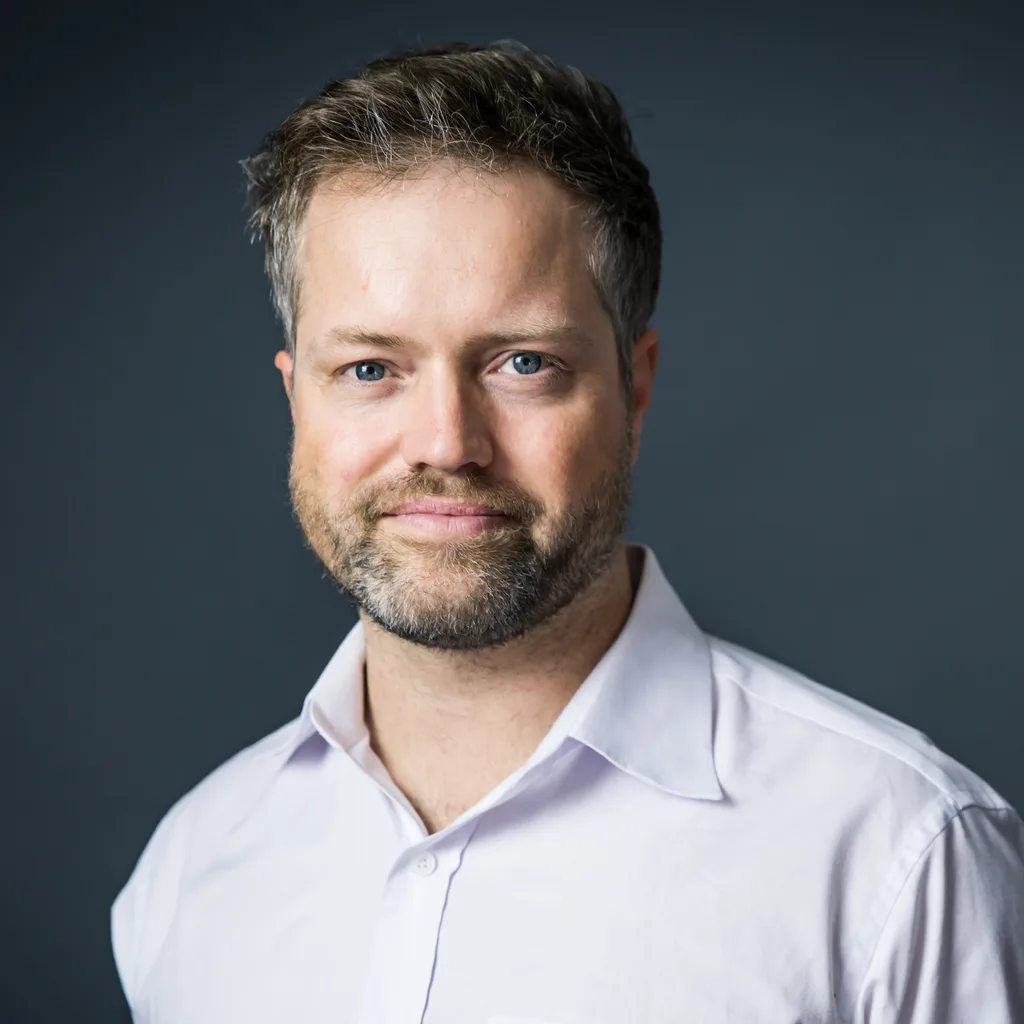
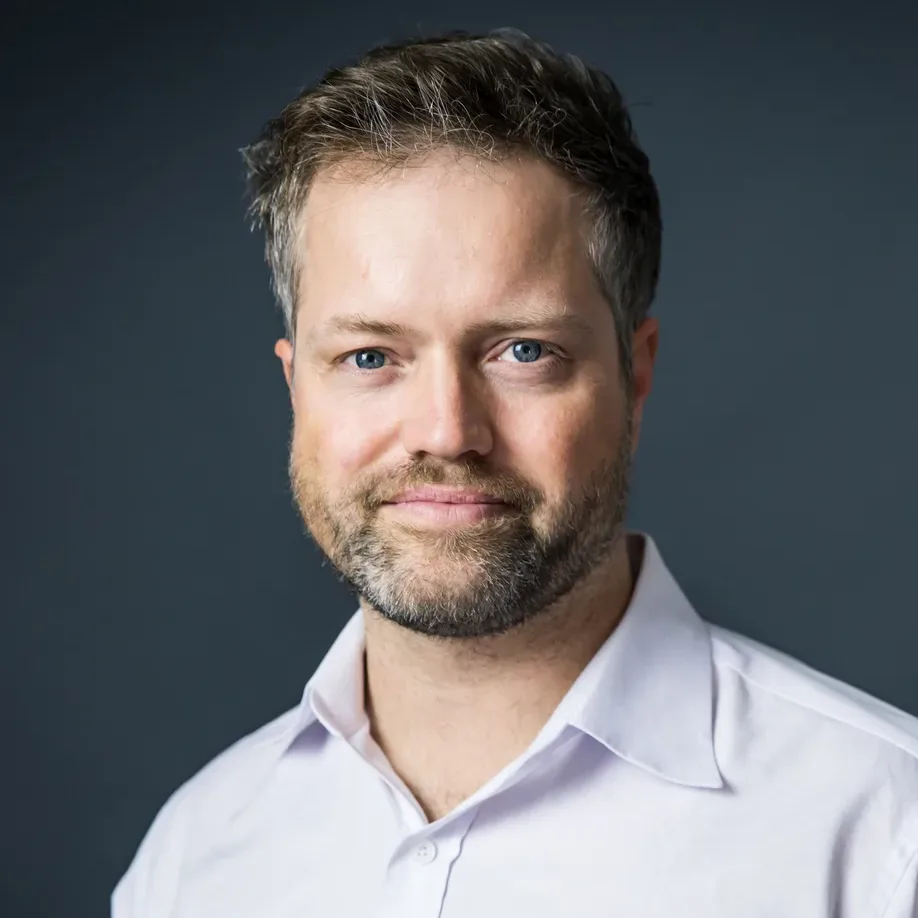
Eight portraits re-cropped toward the reference head framing, for an even grid
The decision of 11.11.: the re-crops toward the framing of the two reference portraits go in for
the sake of an even grid. Each is cut with bun run portrait --crop: five from the committed file,
crop only; one from a larger public original of the same shot, crop only; two from the larger
originals their files were made from on 08.11., with the same --retouch. Sides 480 to 943 px; the
four files at or above portraitMinimum stay there, so the size test's count is unchanged.
scripts/retouch-portrait.ts and the practitioner-bio skill now state the measured target instead
of eyes at 40 % and a side equal to the source's shorter side: face about 45 % of the side, eyes
about 36.5 % from the top, centred, with hair and chin margins winning. The portraits report states
the new count.

diff --git a/scripts/retouch-portrait.ts b/scripts/retouch-portrait.ts
@@ -5,8 +5,9 @@
 //   --sharpen  sharp-2: an unsharp mask on luminance only (radius 1.2 px, amount 70 %, threshold 2)
 //              at the master size
 //
-// --crop is the square in source pixels (head and shoulders, eyes about 40 % from the top); without
-// it a non-square source is cut square by sharp's attention strategy. --size defaults to the
+// --crop is the square in source pixels (head and shoulders: face about 45 % of the side, eyes about
+// 36.5 % from the top, centred); without it a non-square source is cut square by sharp's attention
+// strategy. --size defaults to the
 // crop's side, capped at 1024 px, the practitioner-bio skill's cap. WebP q82.
 import { parseArgs } from "node:util";
 import sharp from "sharp";

diff --git a/docs/agent-work/2026-11-08-portraits.md b/docs/agent-work/2026-11-08-portraits.md
@@ -1,9 +1,12 @@
 # Portraits: larger originals, retouch and head framing, 08.11. and 11.11.2026
 
-State on 11.11.: one more portrait changed, re-cropped from the same upload so the head comes close
-to the size and height of the two reference portraits. The other nine re-crops the review saw keep
-their files, and so do the three portraits added on 11.11. from public pages: retouch and sharp-2
-won for none of them. On 08.11. three portraits changed, each a larger copy of the same shot with the
+State on 11.11.: nine of the ten re-crops the review saw are in, so the head comes close to the
+size and height of the two reference portraits: one after its review pair, eight by the decision
+of 11.11. to even out the framing across the grid wherever the pair found no difference beyond the
+noise. The tenth keeps its file. Of the eight, five are cut from the committed file, crop only, one
+from a larger public original, crop only, and two from the larger originals of 08.11. with the
+retouch their files already carried. The three portraits added on 11.11. from public pages keep
+their files: retouch and sharp-2 won for none of them. On 08.11. three portraits changed, each a larger copy of the same shot with the
 retouch, without sharp-2; across 33 people, retouch alone tied with the current files (mean −0.02
 on a 10-point scale) and retouch plus sharp-2 lost (mean −0.21). This repository is public, so the
 per-person tables of 08.11. live in os (`docs/agent-work/2026-11-08-portraits.md`); those of 11.11.

diff --git a/.claude/skills/practitioner-bio/SKILL.md b/.claude/skills/practitioner-bio/SKILL.md
@@ -21,10 +21,12 @@ from the second, so what you save is what a client reads.
 Mandatory: **name, bio in English and German, LinkedIn URL, portrait**. Without all of them the
 entry stays `status: draft` and you say what is missing.
 
-The portrait is `photo.webp`, cropped square, its side the source's shorter side, never
-upscaled, and at most 1024 px except for `benedikt-stemmildt`, whose 866 CSS px slot on the
-website needs more (`--size`). Make it with `bun run portrait <source> <folder>/photo.webp`,
-adding `--crop x,y,side` where the automatic square cuts the head. Then run
+The portrait is `photo.webp`, a square cut to the head framing of `stefan-munz` and
+`benedikt-stemmildt`: face box about 45 % of the side, eyes about 36.5 % from the top, face
+centred, with at least 3 % of the side above the hair and 2 % below the chin, which win over that
+framing. Never upscaled, and at most 1024 px except for `benedikt-stemmildt`, whose 866 CSS px slot
+on the website needs more (`--size`). Make it with
+`bun run portrait <source> <folder>/photo.webp --crop x,y,side`. Then run
 `bun test ./src/lib/photo-size.test.ts`: it fails when the number of portraits with a side below
 `portraitMinimum` (`src/lib/schema.ts`) changes, and the comment on `AWAITING_ORIGINAL` in that
 test says what to do. In the person's fork, put the source photo in their folder under its own
